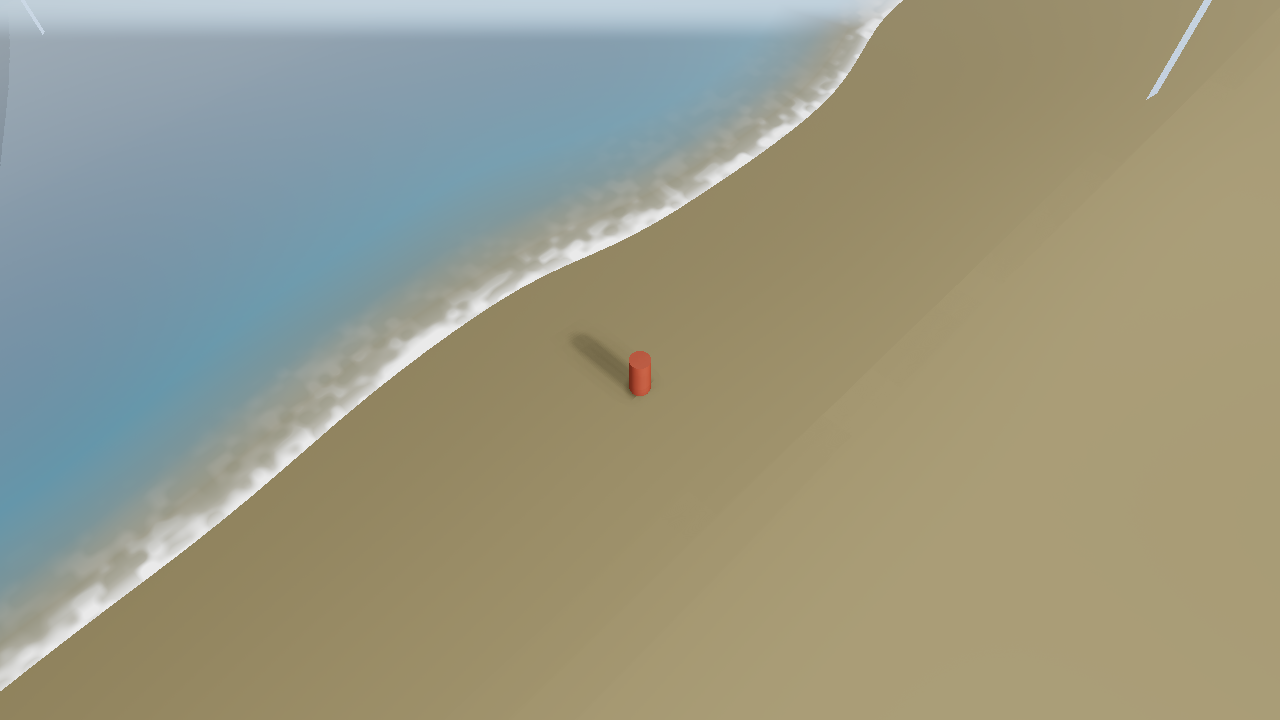
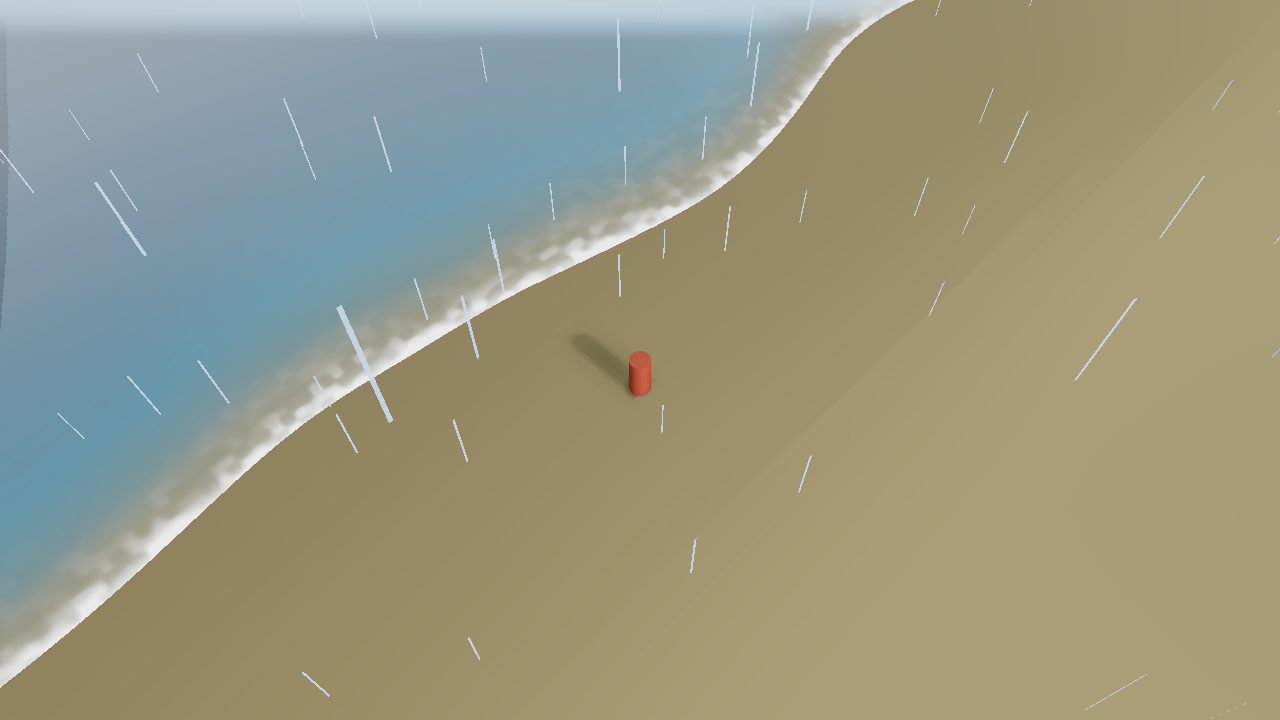
fix(p9): make mesh rain dense and camera centered

diff --git a/Assets/Game/Time/MeshRain.cs b/Assets/Game/Time/MeshRain.cs
@@ -10,8 +10,8 @@ namespace Fengling.Time
     public sealed class MeshRain : MonoBehaviour
     {
         public WeatherSystem weather;
-        public int count = 700;
-        public float area = 42f;
+        public int count = 4000;
+        public float area = 60f;
 
         private Mesh _mesh;
         private MeshRenderer _renderer;
@@ -71,7 +71,7 @@ namespace Fengling.Time
             _mesh.uv = uvs;
             _mesh.colors = colors;
             _mesh.triangles = tris;
-            _mesh.bounds = new Bounds(Vector3.zero, new Vector3(area, 20f, area));
+            _mesh.bounds = new Bounds(Vector3.zero, new Vector3(area, 40f, area));
         }
 
         private void Update()
@@ -79,7 +79,8 @@ namespace Fengling.Time
             if (_camera == null) _camera = Camera.main;
             if (_camera == null) return;
             var p = _camera.transform.position;
-            transform.position = new Vector3(p.x, p.y - 5f, p.z);
+            var f = _camera.transform.forward;
+            transform.position = new Vector3(p.x + f.x * 15f, p.y - 10f, p.z + f.z * 15f);
             Refresh();
         }
 

diff --git a/Docs/未完成待办总表.md b/Docs/未完成待办总表.md
@@ -35,7 +35,7 @@
 |---|---|---|---|
 | B1 | 云量/云类型 | WIP | 已有 `WeatherSystem` + 日月遮挡/光强/阴影衰减；云类型分层未做 |
 | B2 | 雾/霾 | WIP | 雾色/密度已接天空、Lit、水面、日月和阴影；体积雾/能见度衰减未做 |
-| B3 | 雨/雪 | WIP | Mesh 雨已可见但偏稀疏；雪未做；ParticleSystem/overlay 仍不可用 |
+| B3 | 雨/雪 | WIP | Mesh 雨已明显可见；雪未做；水面雨纹未验收 |
 | B4 | 天气对水面的影响 | WIP | 云量已降低反射/高光并偏灰，雾已做距离衰减；雨滴波纹未做 |
 | B5 | 阴晴圆缺中的“阴晴” | WIP | cloudCover 已驱动日月与阴影 |
 

diff --git a/Docs/日月天文与视觉设计稿_2026-11-20.md b/Docs/日月天文与视觉设计稿_2026-11-20.md
@@ -349,6 +349,17 @@
 
 ![Mesh 雨](images/p9_mesh_rain.png)
 
+**Mesh 雨改进（2026-11-20）**
+
+- 雨幕中心移到相机前方 15m
+- 数量 4000
+- 面积 60m
+- 雨丝变细（0.022）变短（0.65）
+- 风偏 + 深度淡出（8–90m）
+- 俯视下已能明显看到雨
+
+雪：下一步用同一套 Mesh 方案。
+
 ---
 
 ## 6. 光照与阴影
